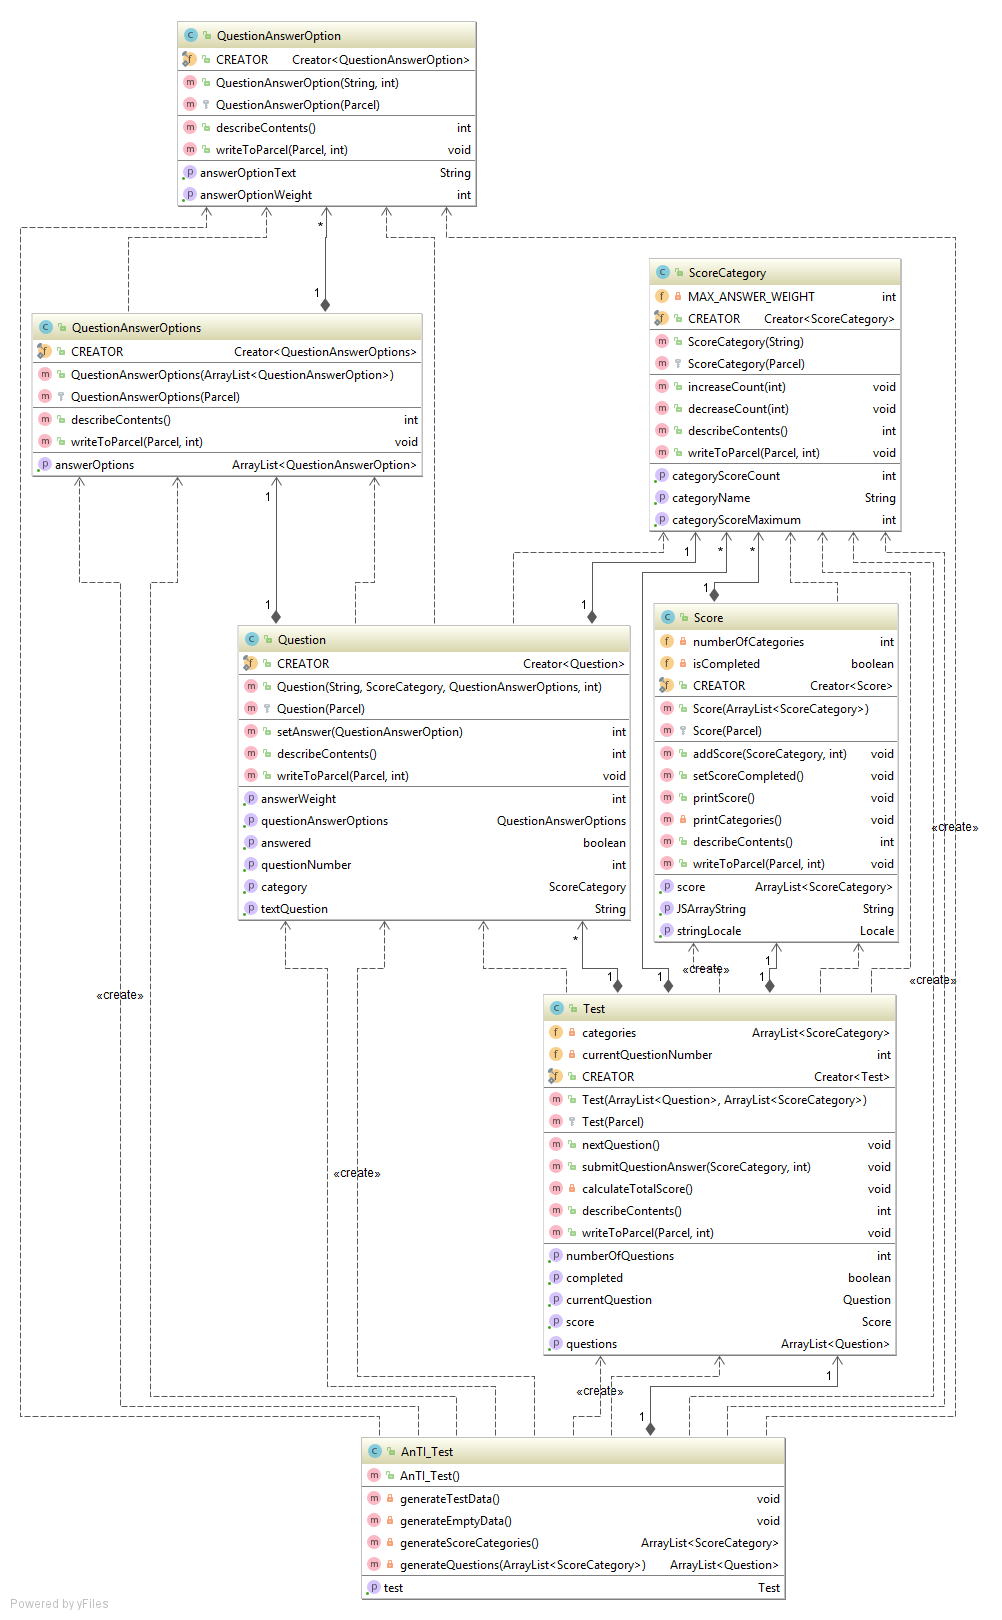
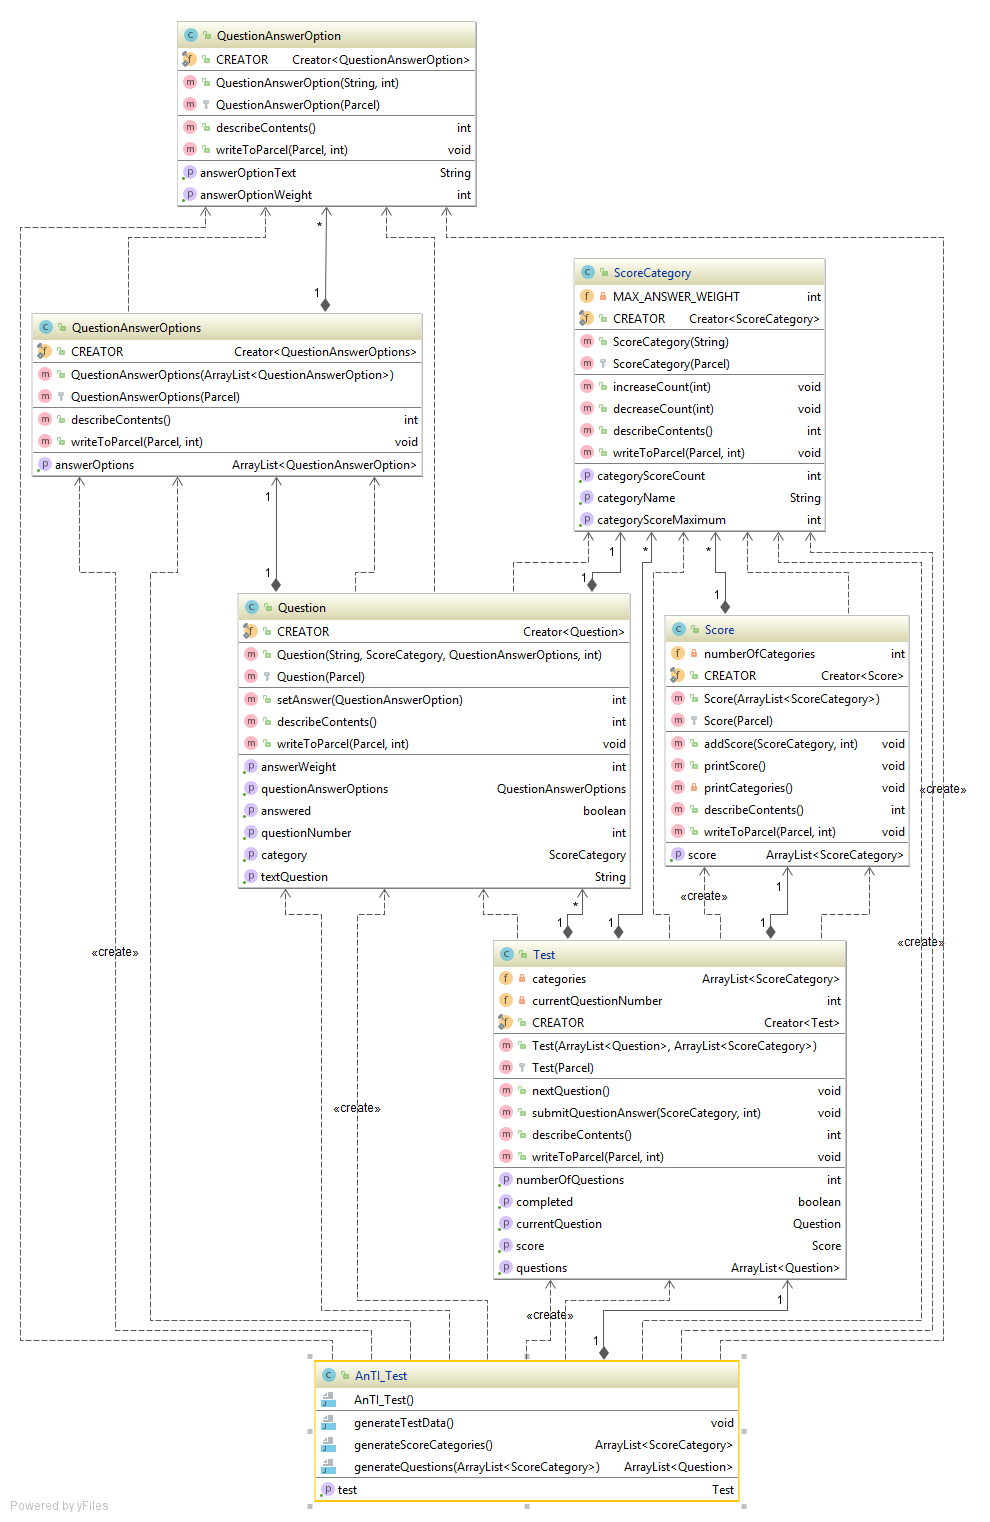
some cleanup

diff --git a/P2/app/src/main/java/com/example/p2/backend/questionnaire/Score.java b/P2/app/src/main/java/com/example/p2/backend/questionnaire/Score.java
@@ -12,25 +12,16 @@ public class Score implements Parcelable {
 
     private ArrayList<ScoreCategory> categories;
 
-    private boolean isCompleted;
-
-    private Locale stringLocale = Locale.getAvailableLocales()[18]; // en_US
-
     public Score(ArrayList<ScoreCategory> categories){
 
         this.categories = categories;
 
         numberOfCategories = categories.size();
 
-        isCompleted = false;
     }
 
     public void addScore(ScoreCategory category, int answerWeight){
         category.increaseCount(answerWeight);
-    }
-
-    public void setScoreCompleted(){
-        isCompleted = true;
     }
 
     public ArrayList<ScoreCategory> getScore(){
@@ -38,8 +29,7 @@ public class Score implements Parcelable {
     }
 
     public void printScore(){
-        System.out.println("\n Score: \n" +
-                "\n Is completed: " + isCompleted);
+        System.out.println("\n Score: \n");
         printCategories();
     }
 
@@ -55,20 +45,6 @@ public class Score implements Parcelable {
         }
     }
 
-    public String getJSArrayString(){
-        String resultString = "['Category', 'Your Score', 'Maximum'],\n";
-        for (ScoreCategory category : categories){
-            resultString = resultString.concat(String.format(stringLocale,
-                    "['%s', %d, %d],\n",
-                    category.getCategoryName(), category.getCategoryScoreCount(), category.getCategoryScoreMaximum()));
-        }
-        return resultString;
-    }
-
-    public Locale getStringLocale(){
-        return stringLocale;
-    }
-
 
     protected Score(Parcel in) {
         numberOfCategories = in.readInt();
@@ -78,8 +54,6 @@ public class Score implements Parcelable {
         } else {
             categories = null;
         }
-        isCompleted = in.readByte() != 0x00;
-        stringLocale = (Locale) in.readValue(Locale.class.getClassLoader());
     }
 
     @Override
@@ -96,8 +70,6 @@ public class Score implements Parcelable {
             dest.writeByte((byte) (0x01));
             dest.writeList(categories);
         }
-        dest.writeByte((byte) (isCompleted ? 0x01 : 0x00));
-        dest.writeValue(stringLocale);
     }
 
     @SuppressWarnings("unused")

diff --git a/P2/app/src/main/java/com/example/p2/backend/questionnaire/AnTI_Test.java b/P2/app/src/main/java/com/example/p2/backend/questionnaire/AnTI_Test.java
@@ -16,20 +16,22 @@ public class AnTI_Test {
 
     public AnTI_Test(){
         generateTestData();
-        //generateEmptyData();
     }
 
     private void generateTestData(){
+
         ArrayList<ScoreCategory> scoreCategories = generateScoreCategories();
 
         ArrayList<Question> questions = generateQuestions(scoreCategories);
 
         test = new Test(questions, scoreCategories);
+
     }
 
-    private void generateEmptyData(){
-        test = new Test(null, null);
+    public Test getTest(){
+        return test;
     }
+
 
     private ArrayList<ScoreCategory> generateScoreCategories(){
         ArrayList<ScoreCategory> scoreCategories = new ArrayList<>();
@@ -208,10 +210,6 @@ public class AnTI_Test {
 
 
         return questions;
-    }
-
-    public Test getTest(){
-        return test;
     }
 
 }

diff --git a/P2/app/src/main/java/com/example/p2/backend/questionnaire/Test.java b/P2/app/src/main/java/com/example/p2/backend/questionnaire/Test.java
@@ -20,7 +20,6 @@ public class Test implements Parcelable {
     public Test(ArrayList<Question> questions, ArrayList<ScoreCategory> categories){
         this.questions = questions;
         this.categories = categories;
-        calculateTotalScore();
         score = new Score(categories);
         currentQuestionNumber = 0;
         testIsCompleted = false;
@@ -42,13 +41,8 @@ public class Test implements Parcelable {
         return questions.size();
     }
 
-
     public void submitQuestionAnswer(ScoreCategory scoreCategory, int weight){
         score.addScore(scoreCategory, weight);
-    }
-
-    private void calculateTotalScore(){
-
     }
 
     public Score getScore(){

diff --git a/P2/app/src/main/java/com/example/p2/backend/questionnaire/ScoreCategory.java b/P2/app/src/main/java/com/example/p2/backend/questionnaire/ScoreCategory.java
@@ -30,6 +30,7 @@ public class ScoreCategory implements Parcelable {
 
     public void decreaseCount(int numberToTake){
         categoryScoreCount -= numberToTake;
+        categoryScoreMaximum -= MAX_ANSWER_WEIGHT;
     }
 
     public int getCategoryScoreCount(){

diff --git a/P2/app/src/main/java/com/example/p2/backend/BackendMain.java b/P2/app/src/main/java/com/example/p2/backend/BackendMain.java
@@ -21,7 +21,6 @@ public class BackendMain {
 
         Score testScore = test.getScore();
         testScore.printScore();
-        System.out.println(testScore.getJSArrayString());
 
         System.out.println("done.");
 
